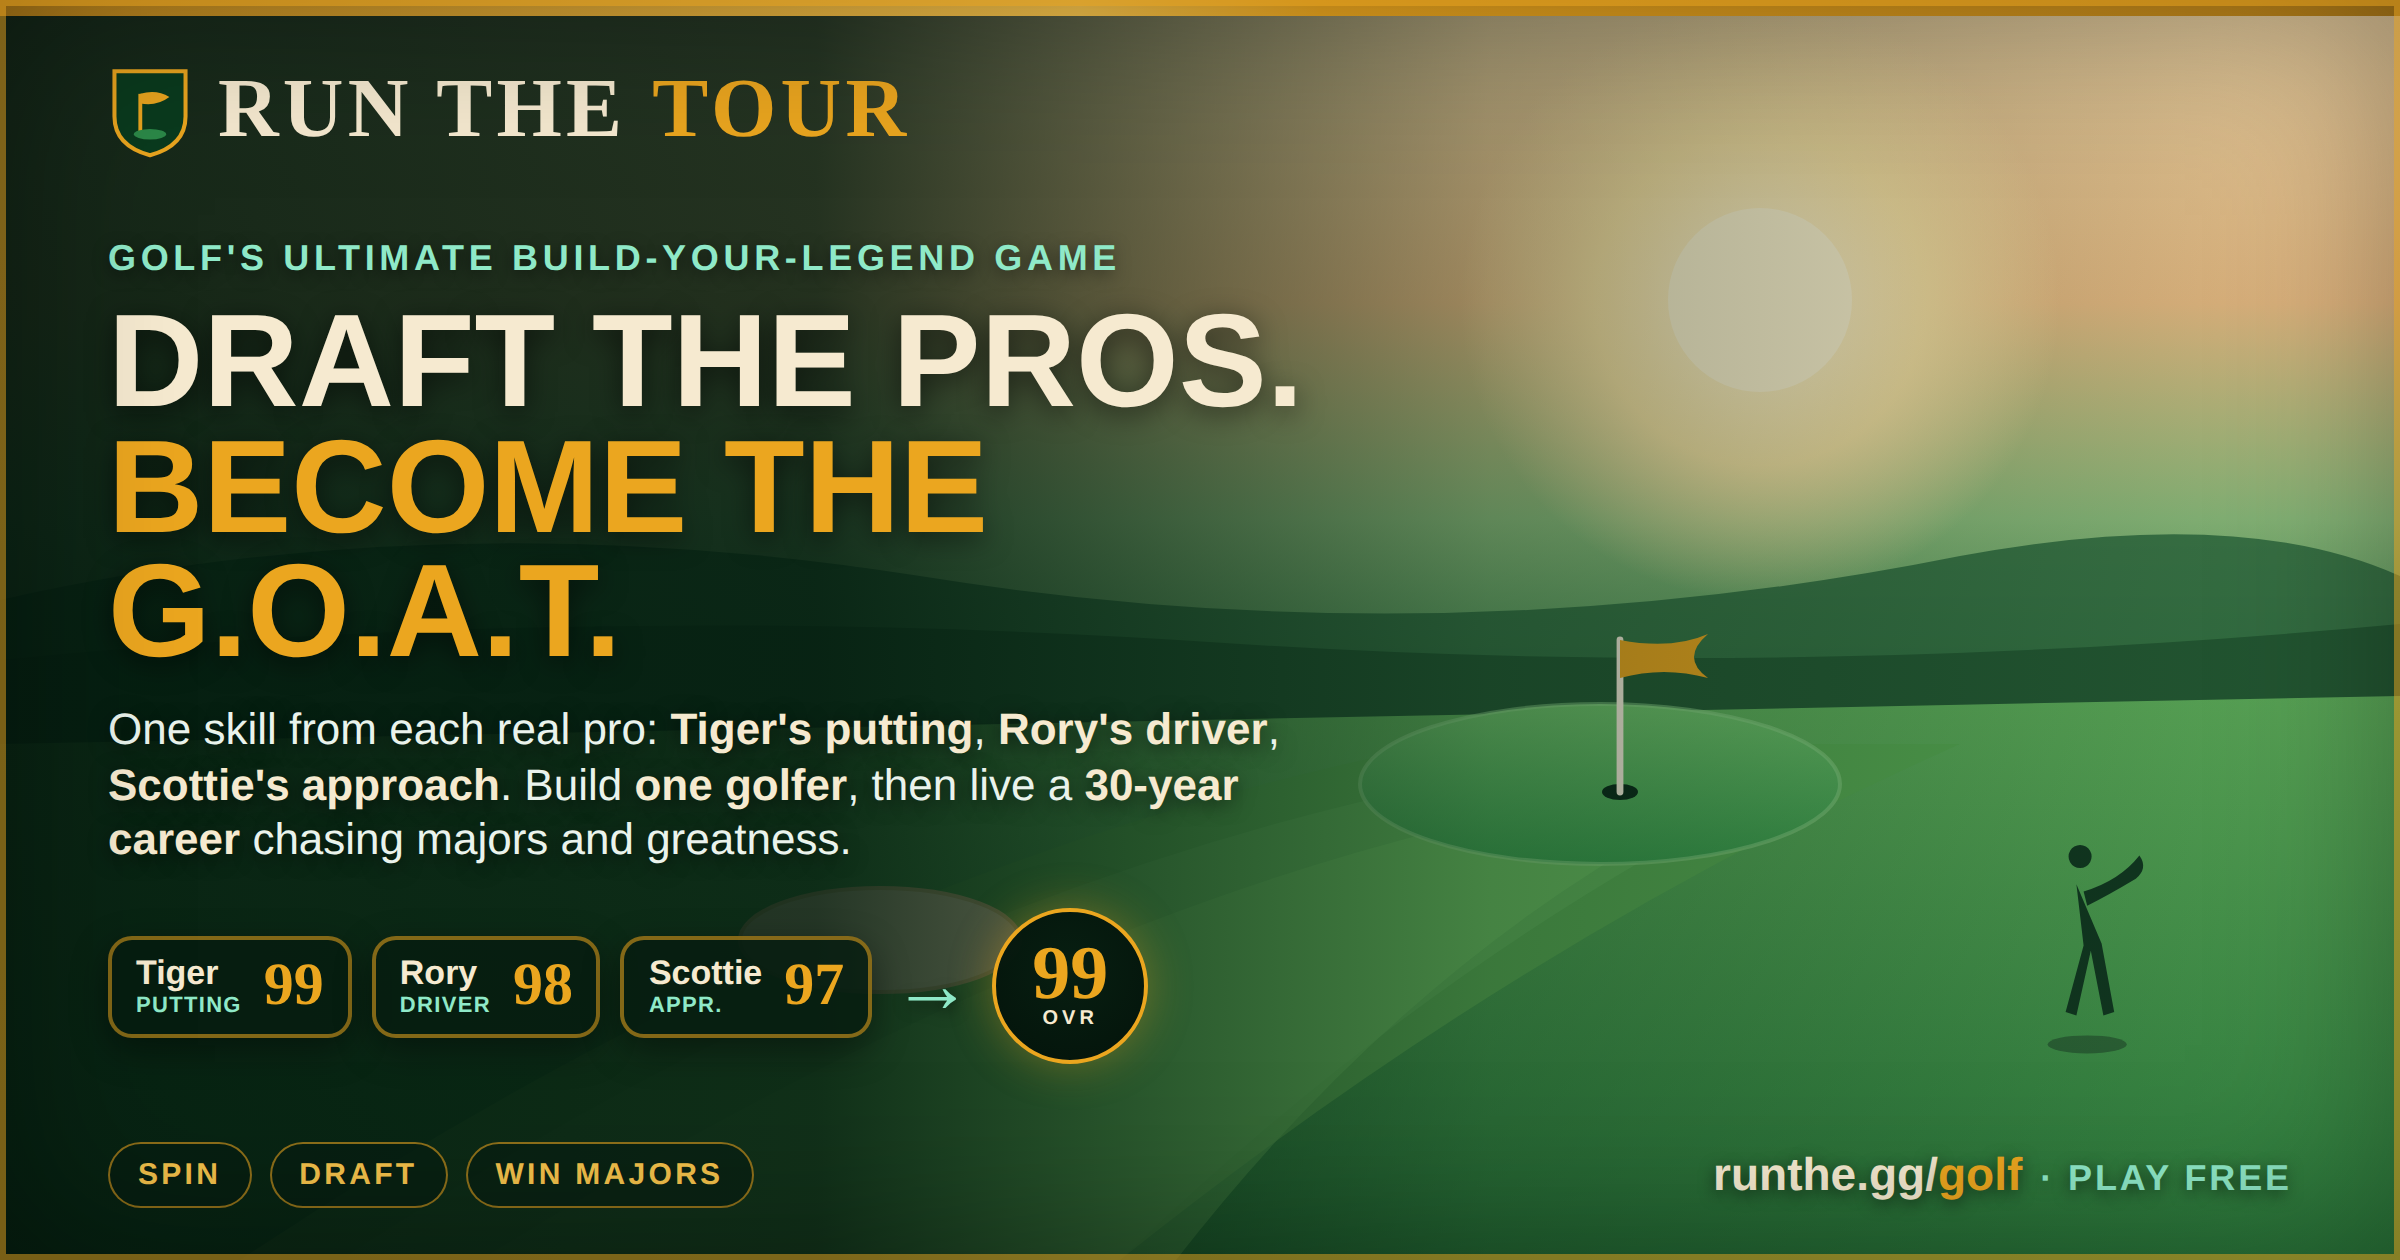
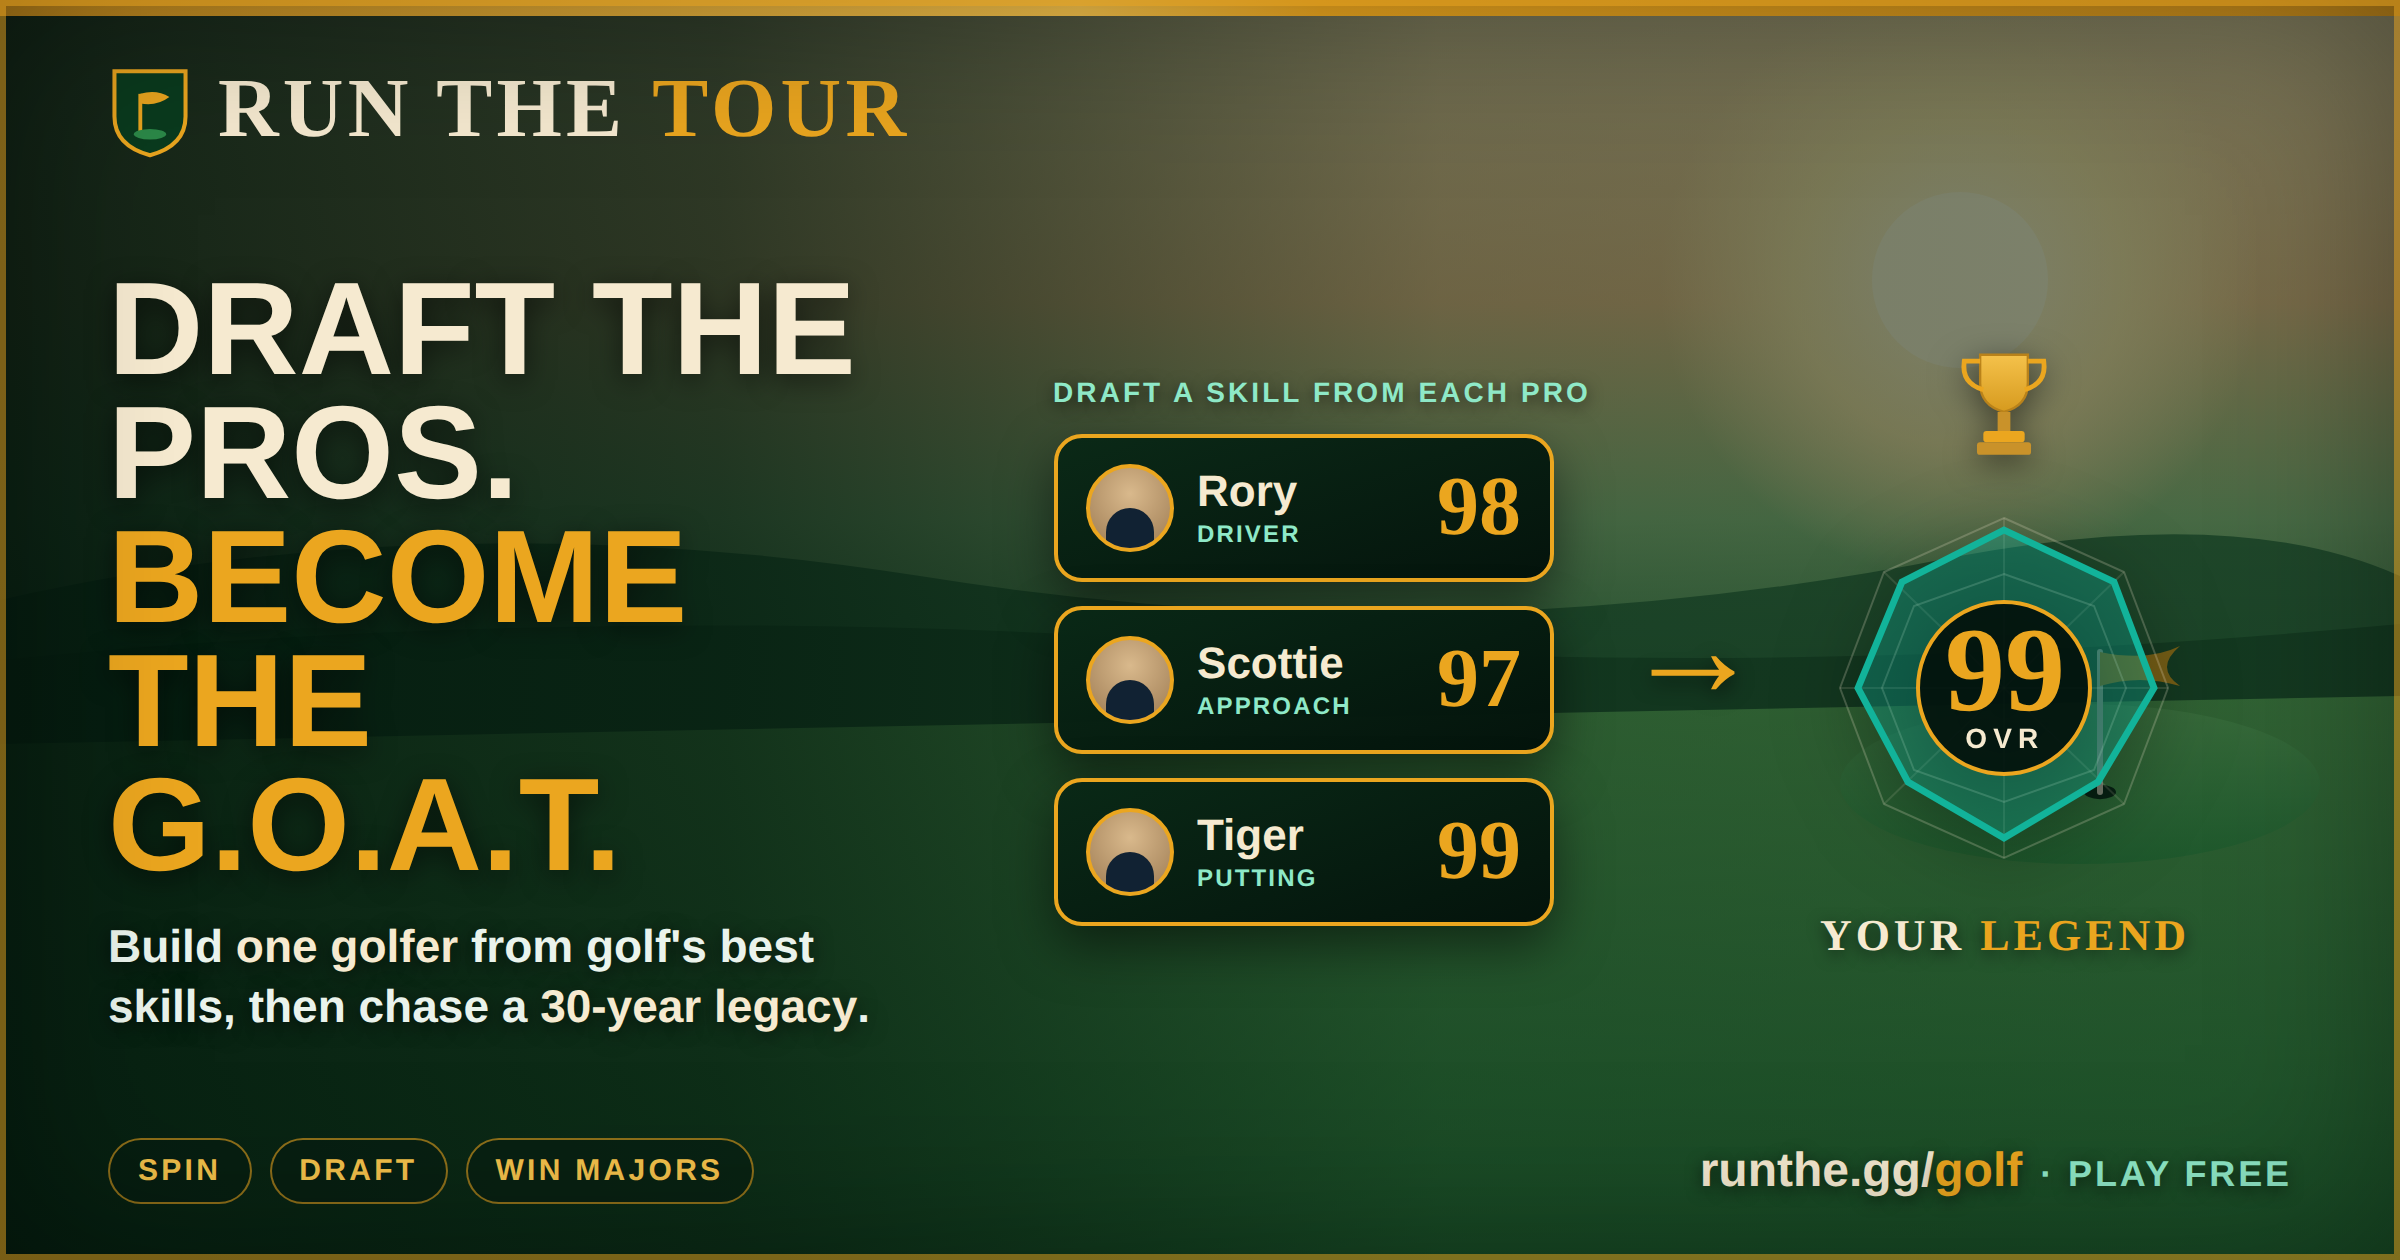
Deploy CS348b: OG course-look v2 (bold drafting visual, ?v=5)
Claude-Session: https://claude.ai/code/session_01L7fk68sivFqh98rLW3Jw5G

diff --git a/golf/index.html b/golf/index.html
@@ -14,7 +14,7 @@
 <meta property="og:url" content="https://runthe.gg/golf/">
 <meta property="og:title" content="Run The Tour: Draft the Pros, Become the G.O.A.T.">
 <meta property="og:description" content="Build one golfer by drafting a skill from each real pro (Tiger's putting, Rory's driver, Scottie's approach), then live a 30-year career chasing majors and greatest-of-all-time status. Play free.">
-<meta property="og:image" content="https://runthe.gg/golf/og.png?v=4">
+<meta property="og:image" content="https://runthe.gg/golf/og.png?v=5">
 <meta property="og:image:width" content="1200">
 <meta property="og:image:height" content="630">
 <meta property="og:image:alt" content="Run The Tour: draft skills from real pro golfers into one golfer and chase greatest-of-all-time status.">
